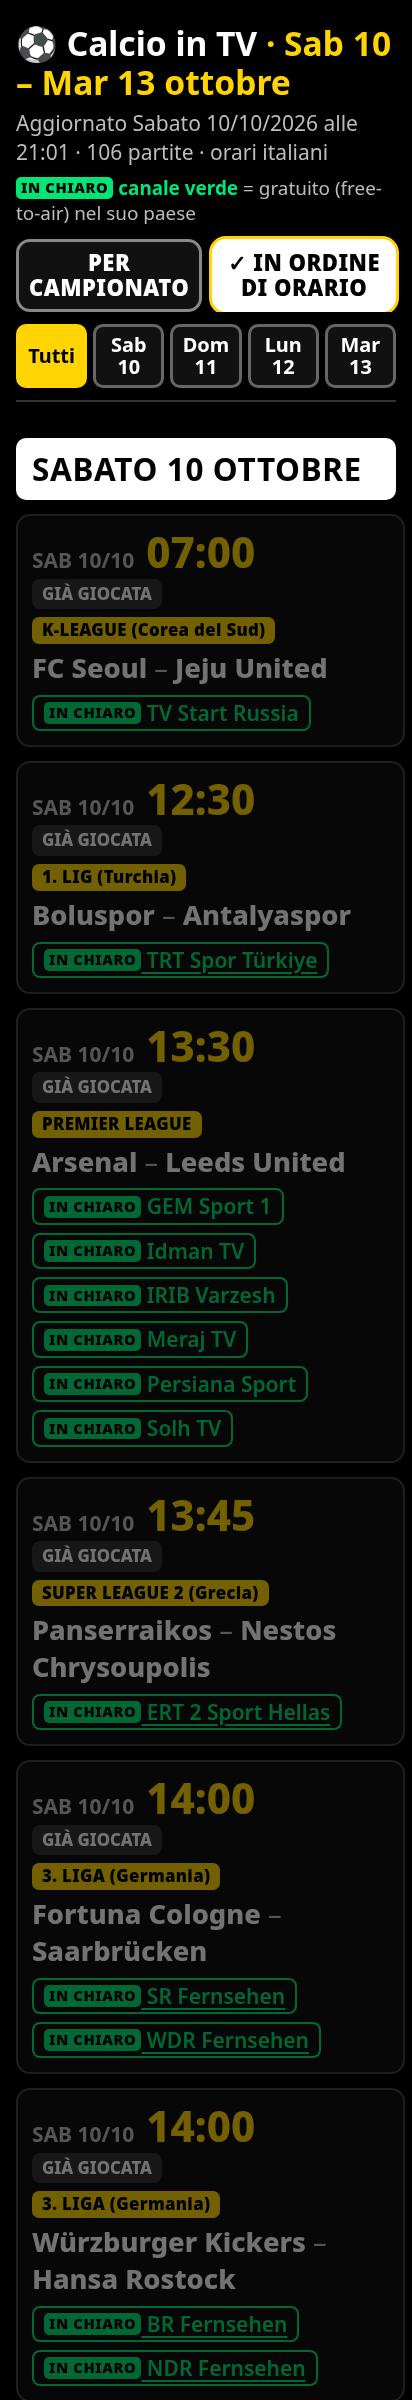
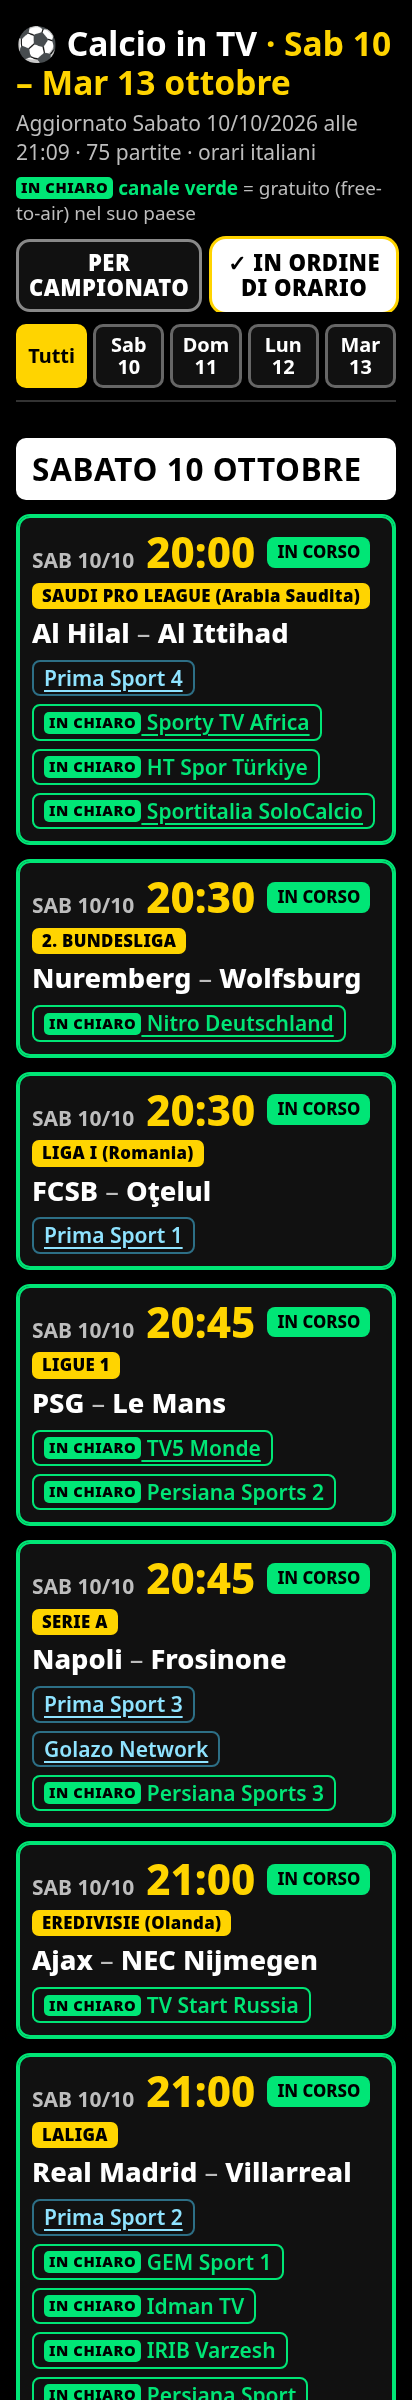
Esclusi GEM Sport, Persiana, IRIB/Varzesh, Meraj (tutte le fonti)

Changed region(s): [[0.0291, 0.2188, 0.9903, 1.0]]

diff --git a/tests/test_logica.py b/tests/test_logica.py
@@ -123,6 +123,18 @@ def test_esclusi():
     assert grezzo["Lille v Le Havre"]["canali_fta"] == ["Megogo Sport Ukraine"]
     assert "Lille v Le Havre" not in titoli and "Monaco v Toulouse" not in titoli
     assert "Paris St Germain v Le Mans" in titoli  # ha altri canali in chiaro
+    # canali iraniani/afghani esclusi (anche con varianti di nome)
+    for parola in ("gem sport", "persiana", "irib", "varzish", "varzesh", "meraj"):
+        assert parola in CONF_LOS["escludi_canali"], parola
+    vietati = ("gem sport", "persiana", "irib", "varz", "meraj")
+    assert not any(v in c.lower() for x in partite for c in x["canali_fta"] for v in vietati)
+    # Arsenal-Leeds (sab 13:30) aveva solo GEM/Idman/IRIB/Meraj/Persiana/Solh: resta solo con Idman TV e Solh TV
+    ars = grezzo["Arsenal v Leeds United"]["canali_fta"]
+    assert ars == ["GEM Sport 1", "Idman TV", "IRIB Varzesh", "Meraj TV", "Persiana Sport", "Solh TV"], ars
+    assert titoli["Arsenal v Leeds United"]["canali_fta"] == ["Idman TV", "Solh TV"]
+    # Rayo-Athletic aveva solo Persiana Sports 3 (+ DAZN): sparisce
+    assert grezzo["Rayo Vallecano v Athletic Bilbao"]["canali_fta"] == ["DAZN España HD FTA", "Persiana Sports 3"]
+    assert "Rayo Vallecano v Athletic Bilbao" not in titoli
     # HTML sintetico: maiuscole/minuscole indifferenti
     finto = ('<span class = comp_head>X</span><div class = blockfix ><div class = fLeft style="a">A v B</div>'
              '<div data-timestamp="1791648000"></div>'
@@ -241,7 +253,7 @@ def test_unione():
     assert st["totale"] == 64 + st["liveonsat"] - len(st["uniti"]), st
     # doppioni uniti: canali LiveSoccerTV + canali in chiaro LiveOnSat, una sola riga
     psg = tutte["PSG - Le Mans"]
-    assert [(c["nome"], c["fta"]) for c in psg["canali"]] == [("TV5 Monde", True), ("Persiana Sports 2", True)], psg["canali"]
+    assert [(c["nome"], c["fta"]) for c in psg["canali"]] == [("TV5 Monde", True)], psg["canali"]  # Persiana esclusa
     assert psg["fonti"] == ["LiveSoccerTV", "LiveOnSat"]
     como = tutte["Como - Roma"]
     assert [c["nome"] for c in como["canali"]] == ["Prima Sport 1", "Sporty TV Africa"], como["canali"]
@@ -255,6 +267,8 @@ def test_unione():
     nomi = [g["nome"] for g in gruppi]
     assert nomi.index("SERIE A") == 0 and nomi.count("PREMIER LEAGUE") == 1 and nomi.count("SERIE A") == 1
     assert not any("dazn" in c["nome"].lower() for e in tutte.values() for c in e["canali"])
+    assert not any(v in c["nome"].lower() for e in tutte.values() for c in e["canali"]
+                   for v in ("megogo", "gem sport", "persiana", "irib", "varz", "meraj"))
     html = p.genera_html(v, dt.datetime(2026, 10, 10, 18, 30, tzinfo=p.ROMA), gruppi, falliti, senza)
     assert html.count('class="partita"') == 2 * st["totale"] and html.count('<li class="fta">') > 50
     # vista "in ordine di orario": stesse partite, ordinate per ora, con separatori per giorno ed etichetta campionato

diff --git a/scraper/palinsesto.py b/scraper/palinsesto.py
@@ -287,6 +287,17 @@ def raccogli(canali, inizio, fine, conf_los=None, statistiche=None):
         st["pagine_liveonsat_fallite"] = len(falliti_los)
         eventi, st["uniti"] = unisci_fonti(eventi, partite_los, conf_los.get("canali_in_chiaro", []))
         st["solo_liveonsat"] = sum(1 for e in eventi if e["fonti"] == ["LiveOnSat"])
+    # esclusioni permanenti (liveonsat.json -> escludi_canali) applicate a tutte le fonti
+    escludi = ["dazn"] + [x.lower() for x in (conf_los or {}).get("escludi_canali", []) if x]
+    st["tolte_esclusi"] = []
+    rimasti = []
+    for e in eventi:
+        e["canali"] = [k for k in e["canali"] if not any(x in k["nome"].lower() for x in escludi)]
+        if e["canali"]:
+            rimasti.append(e)
+        else:
+            st["tolte_esclusi"].append(f'{e["casa"]} - {e["ospite"]}')
+    eventi = rimasti
     st["totale"] = len(eventi)
     if statistiche is not None:
         statistiche.update(st)

diff --git a/README.md b/README.md
@@ -36,7 +36,7 @@ In `liveonsat.json`:
 - `pagine`: pagine di LiveOnSat da leggere (una per campionato/nazione; `2day.php` = tutte le partite di oggi);
 - `canali_in_chiaro`: canali considerati gratuiti anche se LiveOnSat non li segna in rosso (espressioni regolari sul nome del canale);
 - `alias_canali`: per unire più nomi dello stesso canale (es. tutte le varianti di TV5 Monde).
-- `escludi_canali`: canali da non mostrare mai (basta una parola del nome, es. `megogo`). DAZN è sempre escluso. Se una partita resta senza canali in chiaro, sparisce.
+- `escludi_canali`: canali da non mostrare mai, per entrambe le fonti (basta una parola del nome: oggi `megogo`, `gem sport`, `persiana`, `irib`, `varzish`/`varzesh`, `meraj`). DAZN è sempre escluso. Se una partita resta senza canali, sparisce.
 
 Per usare solo LiveSoccerTV: `python3 scraper/palinsesto.py --senza-liveonsat`.
 
